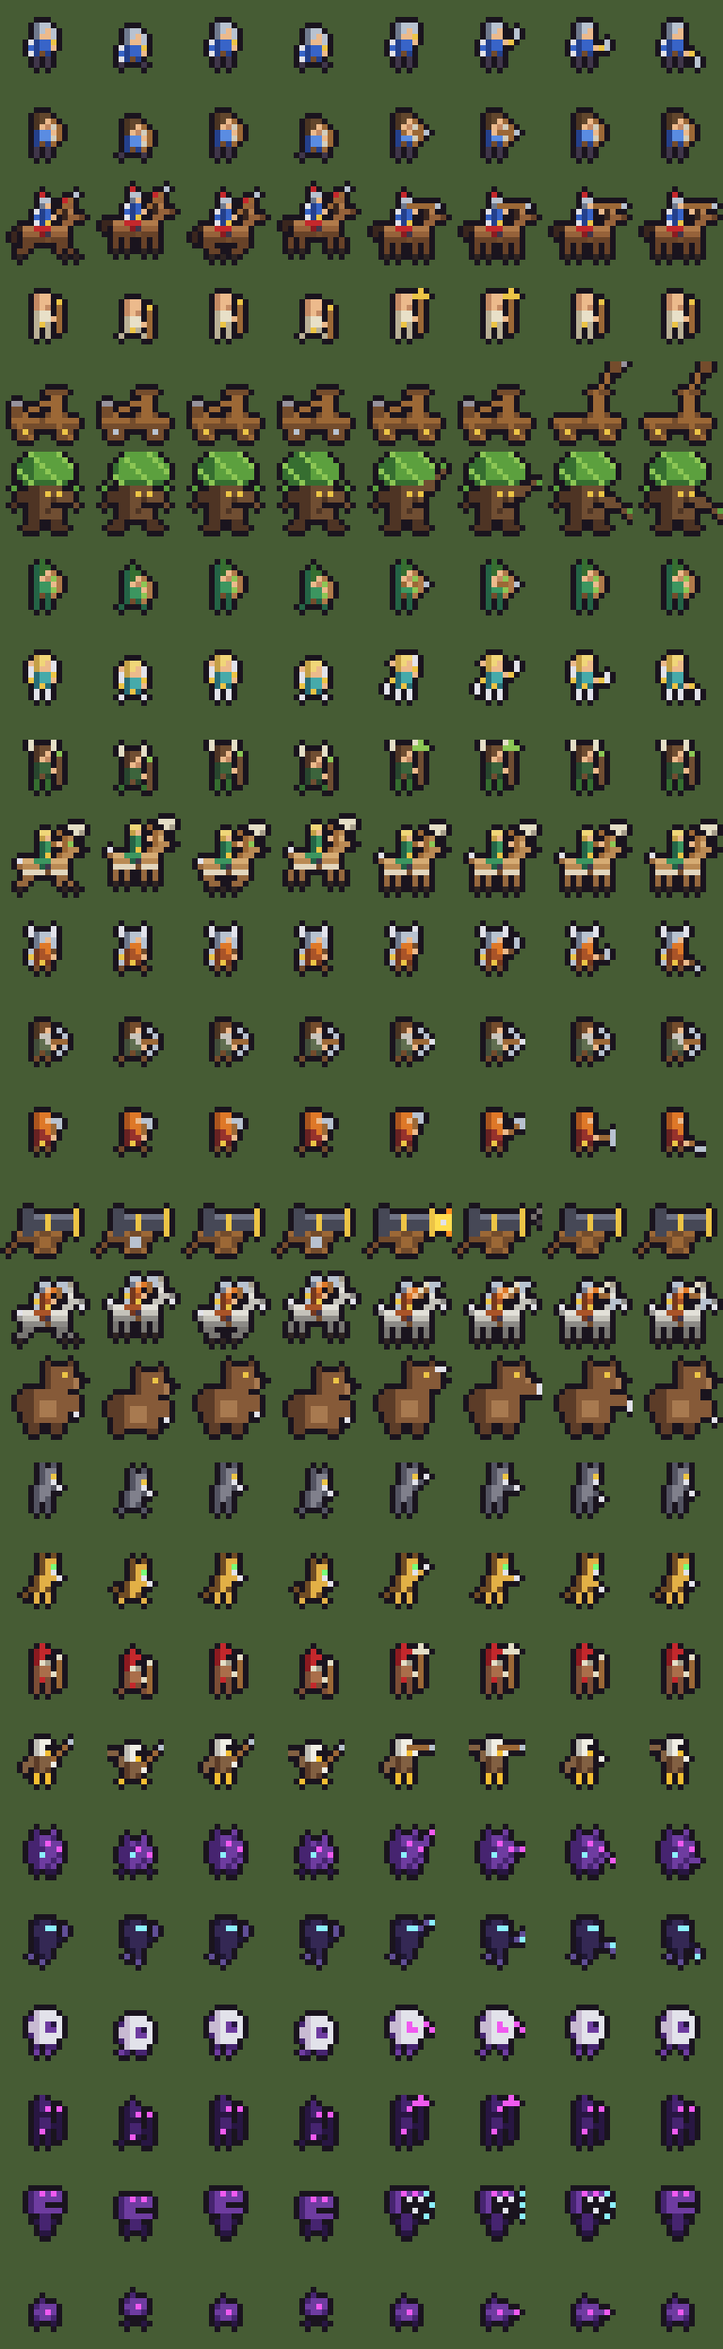
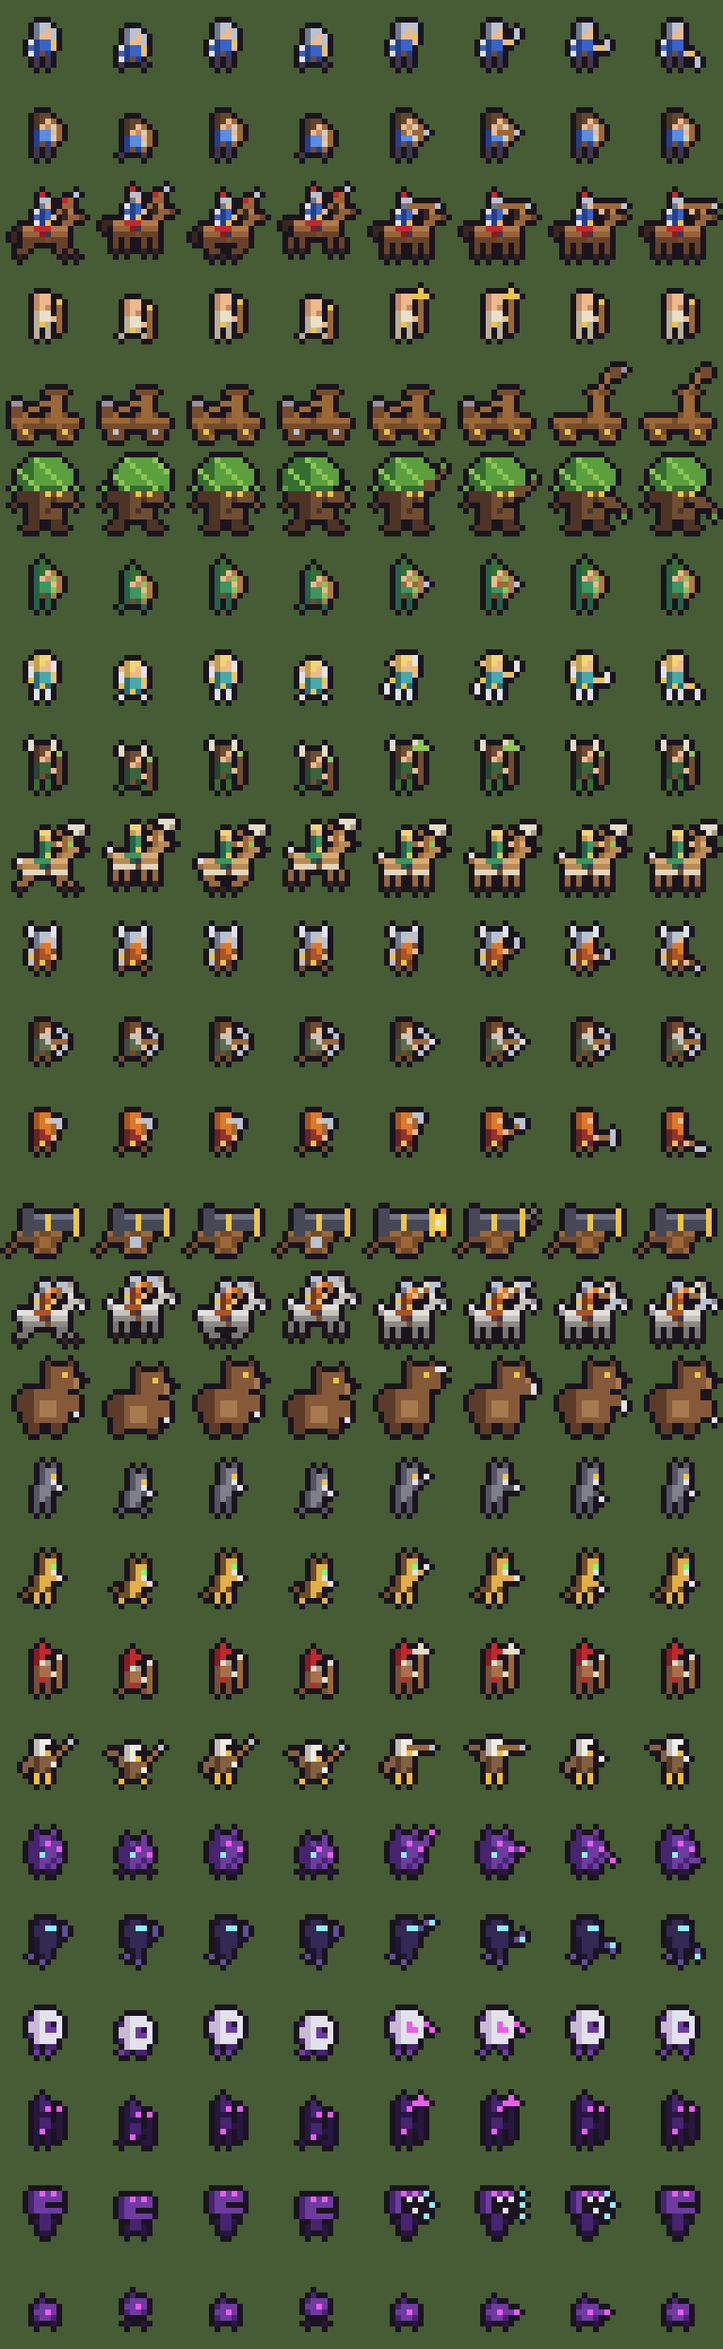
Sửa sprite hở viền, cập nhật README theo code mới
- DrawUnit tự thêm viền: lính bộ 10x10 được đặt vào khung 12x12 (chừa 1 pixel mỗi bên),
  nên pixel sát mép (chóp mũ, sừng, gậy phép, cánh...) không còn bị hở viền.
  Trước đây hở ở Người cây, Cung thủ rừng, Pháp sư tự nhiên và nhiều quân phe khác.
- Người cây, Người gấu, Máy bắn đá, Pháo: kéo tán lá / vuốt / muỗng / lửa nòng khỏi mép khung 16x16.
- Tranh ô công trình và xác chết giữ nguyên vị trí lính (chỉnh lề theo khung 12x12).
- Xuất lại atlas trong Docs/Screenshots.
- README: menu chính + tự lưu, bán thẻ, khoá ô cửa hàng, phím Esc / kéo lưới, UI uGUI + TextMesh Pro,
  số Tuning mới (máu thành 300, mỗi sao nhà lính, giới hạn 4.000 lính), cờ -savetest, quy tắc viền khi vẽ sprite.

diff --git a/Assets/_Project/Scripts/Runtime/Rendering/PixelArt.cs b/Assets/_Project/Scripts/Runtime/Rendering/PixelArt.cs
@@ -11,7 +11,7 @@ namespace HordeLab
     /// </summary>
     public static partial class PixelArt
     {
-        // Ô atlas 16x16: lính bộ 10x10 vẽ ở giữa ô, quân to dùng trọn 16x16. 4 khung hình x (26 loại x 2 trạng thái)
+        // Ô atlas 16x16: lính bộ 10x10 (12x12 tính cả viền) vẽ ở giữa ô, quân to dùng trọn 16x16. 4 khung hình x (26 loại x 2 trạng thái)
         public const int UnitCell = 16, InfantryPx = 10, UnitCols = 4, UnitRows = UnitType.Count * 2;
         public const int StampPx = 20, StampCols = 8, StampRows = 3 + (UnitType.Count * 2 + StampCols - 1) / StampCols;
         public const int ProjW = 12, ProjH = 3;   // mỗi loại đạn 1 hàng 12x3 pixel
@@ -198,8 +198,27 @@ namespace HordeLab
             }
         }
 
-        /// <summary>Vẽ 1 khung hình của 1 loại quân, quay mặt sang phải. Lính bộ trả về 10x10, quân to 16x16.</summary>
+        /// <summary>
+        /// Vẽ 1 khung hình của 1 loại quân, quay mặt sang phải, đã có viền.
+        /// Lính bộ vẽ trong 10x10 rồi đặt vào khung 12x12 (chừa 1 pixel mỗi bên cho viền), quân to 16x16.
+        /// </summary>
         public static Canvas DrawUnit(int type, int state, int f)
+        {
+            var s = DrawBody(type, state, f);
+            if (s.W == InfantryPx)
+            {
+                var padded = new Canvas(InfantryPx + 2, InfantryPx + 2);
+                padded.Blit(s, 1, 1);
+                s = padded;
+            }
+            AddOutline(s);
+            return s;
+        }
+
+        /// <summary>Lính bộ (không phải quân to 16x16)?</summary>
+        public static bool IsInfantry(Canvas sprite) => sprite.W < UnitCell;
+
+        static Canvas DrawBody(int type, int state, int f)
         {
             switch (type)
             {
@@ -259,7 +278,6 @@ namespace HordeLab
 
             if (k.shield) { s.Set(2, 4 + bob, k.sh1); s.Set(2, 5 + bob, k.sh2); s.Set(2, 6 + bob, k.sh1); }
             Weapon(s, k, walk, f, bob);
-            AddOutline(s);
             return s;
         }
 
@@ -475,7 +493,6 @@ namespace HordeLab
                 }
             }
 
-            AddOutline(s);
             return s;
         }
 
@@ -502,21 +519,20 @@ namespace HordeLab
             s.Set(8, 10, BarkDark); s.Set(9, 8, BarkDark);
             // mắt + miệng
             s.Set(8, 7, Gold); s.Set(10, 7, Gold); s.Set(9, 9, Outline); s.Set(10, 9, Outline);
-            // tán lá
-            for (int y = 0; y <= 5; y++)
+            // tán lá (từ hàng 1, chừa hàng 0 cho viền)
+            for (int y = 1; y <= 6; y++)
                 for (int x = 2; x <= 13; x++)
                 {
-                    float dx = x - 7.5f - sway, dyy = (y - 3f) * 1.6f;
+                    float dx = x - 7.5f - sway, dyy = (y - 4f) * 1.6f;
                     if (dx * dx + dyy * dyy > 30f) continue;
-                    s.Set(x, y, ((x * 7 + y * 13) % 5 == 0) ? LeafLight : (x + sway < 6 || y > 4) ? LeafDark : Leaf);
+                    s.Set(x, y, ((x * 7 + y * 13) % 5 == 0) ? LeafLight : (x + sway < 6 || y > 5) ? LeafDark : Leaf);
                 }
-            // tay cành
+            // tay cành (không chạm cột 15 để còn chỗ cho viền)
             Box(s, 3, 7, 4, 8, BarkDark); s.Set(2, 9, BarkDark); s.Set(2, 6, Leaf);
             if (walk) { Box(s, 11, 7, 12, 8, Bark); s.Set(13, 9, Bark); s.Set(13, 6, Leaf); }
             else if (f == 0) { Box(s, 11, 5, 12, 6, Bark); s.Set(13, 4, Bark); s.Set(14, 3, Bark); s.Set(14, 2, Leaf); }       // giơ cành
-            else if (f == 1) { Box(s, 11, 6, 12, 7, Bark); s.Set(13, 6, Bark); s.Set(14, 5, Bark); s.Set(15, 5, Leaf); }
-            else { Box(s, 11, 8, 12, 9, Bark); s.Set(13, 9, Bark); s.Set(14, 10, Bark); s.Set(15, 11, Bark); s.Set(15, 10, Leaf); } // quật xuống
-            AddOutline(s);
+            else if (f == 1) { Box(s, 11, 6, 12, 7, Bark); s.Set(13, 6, Bark); s.Set(14, 5, Bark); s.Set(14, 4, Leaf); }
+            else { Box(s, 11, 8, 12, 9, Bark); s.Set(13, 9, Bark); s.Set(14, 10, Bark); s.Set(14, 11, Leaf); }                 // quật xuống
             return s;
         }
 
@@ -544,10 +560,9 @@ namespace HordeLab
             // tay trước + vuốt
             if (walk) { Box(s, 12, 7 + bob, 13, 9 + bob, FurBrown); s.Set(13, 10 + bob, White); }
             else if (f == 0) { Box(s, 12, 3, 13, 5, FurBrown); s.Set(13, 2, White); s.Set(14, 2, White); }                   // giơ vuốt
-            else if (f == 1) { Box(s, 12, 5, 14, 6, FurBrown); s.Set(15, 5, White); s.Set(15, 6, White); }
-            else if (f == 2) { Box(s, 12, 7, 14, 8, FurBrown); s.Set(15, 8, White); s.Set(15, 9, White); }                   // tát ngang
+            else if (f == 1) { Box(s, 12, 5, 13, 6, FurBrown); s.Set(14, 5, White); s.Set(14, 6, White); }
+            else if (f == 2) { Box(s, 12, 7, 13, 8, FurBrown); s.Set(14, 8, White); s.Set(14, 9, White); }                   // tát ngang
             else { Box(s, 12, 8, 13, 10, FurBrown); s.Set(14, 11, White); }
-            AddOutline(s);
             return s;
         }
 
@@ -578,11 +593,10 @@ namespace HordeLab
             }
             else
             {
-                s.Set(9, 5, wood); s.Set(10, 4, wood); s.Set(11, 3, wood); s.Set(11, 2, wood); s.Set(12, 1, wood);
-                Box(s, 12, 0, 13, 1, dark);
-                if (f == 2) s.Set(14, 0, Rgb(150, 146, 156));   // đá vừa rời muỗng
+                s.Set(9, 5, wood); s.Set(10, 4, wood); s.Set(11, 3, wood); s.Set(11, 2, wood);
+                Box(s, 12, 1, 13, 2, dark);
+                if (f == 2) s.Set(14, 1, Rgb(150, 146, 156));   // đá vừa rời muỗng
             }
-            AddOutline(s);
             return s;
         }
 
@@ -606,9 +620,8 @@ namespace HordeLab
             Box(s, 7, 11, 8, 12, walk && (f & 1) == 1 ? Steel : Wood);
             s.Set(6, 10, Wood); s.Set(9, 13, Wood); s.Set(9, 10, Wood); s.Set(6, 13, Wood);
             // lửa đầu nòng
-            if (!walk && f == 0) { Box(s, 13, 7, 15, 9, Rgb(255, 222, 80)); s.Set(15, 6, Rgb(255, 142, 30)); s.Set(15, 10, Rgb(255, 142, 30)); s.Set(14, 8, White); }
-            else if (!walk && f == 1) { s.Set(14, 7, Rgb(118, 112, 108)); s.Set(15, 6, Rgb(118, 112, 108)); s.Set(15, 8, Rgb(66, 60, 62)); }
-            AddOutline(s);
+            if (!walk && f == 0) { Box(s, 13, 7, 14, 9, Rgb(255, 222, 80)); s.Set(14, 6, Rgb(255, 142, 30)); s.Set(14, 10, Rgb(255, 142, 30)); s.Set(13, 8, White); }
+            else if (!walk && f == 1) { s.Set(13, 7, Rgb(118, 112, 108)); s.Set(14, 6, Rgb(118, 112, 108)); s.Set(14, 8, Rgb(66, 60, 62)); }
             return s;
         }
 
@@ -641,7 +654,6 @@ namespace HordeLab
                 else if (f == 2) { s.Set(8, 5, Void1); s.Set(9, 6, VoidGlow); }
                 else s.Set(8, 6, Void1);
             }
-            AddOutline(s);
             return s;
         }
 
@@ -664,7 +676,6 @@ namespace HordeLab
             else if (f == 1) { s.Set(7, 4, b); s.Set(8, 4, wisp); s.Set(9, 3, wisp); s.Set(9, 4, VoidEye); }
             else if (f == 2) { s.Set(7, 5, b); s.Set(8, 5, wisp); s.Set(9, 6, wisp); s.Set(9, 5, VoidEye); }
             else { s.Set(7, 5, b); s.Set(8, 6, wisp); s.Set(8, 7, VoidEye); }
-            AddOutline(s);
             return s;
         }
 
@@ -691,7 +702,6 @@ namespace HordeLab
             s.Set(5, 7 + bob, Void2); s.Set(5 + w, 8, Void1);
             s.Set(6, 7 + bob, Void2);
             if (glow) { s.Set(8, 3 + bob, VoidGlow); s.Set(9, 4 + bob, VoidGlow); }
-            AddOutline(s);
             return s;
         }
 
@@ -717,7 +727,6 @@ namespace HordeLab
                 int r = 8 + (f % 2);
                 s.Set(r, 1, VoidEye); s.Set(r + (r < 9 ? 1 : 0), 3, VoidEye); s.Set(r, 5, VoidEye);
             }
-            AddOutline(s);
             return s;
         }
 
@@ -732,7 +741,6 @@ namespace HordeLab
             s.Set(4, 4 - hop, Void2);                                                  // sừng nhỏ
             s.Set(3, 8, Void3); s.Set(6, 8, Void3);
             if (!walk && (f == 1 || f == 2)) { s.Set(7, 6, Void1); s.Set(8, 6, VoidGlow); }   // cắn
-            AddOutline(s);
             return s;
         }
 
@@ -779,7 +787,7 @@ namespace HordeLab
                 {
                     int cell = StampCell.Corpse + t * 2 + v;
                     // quân to (xe, thú cưỡi) nằm nguyên chiều, lính bộ ngã xoay 90°
-                    var lying = body.W > InfantryPx && (t == UnitType.Catapult || t == UnitType.Cannon) ? body : Rotate(body, v == 0);
+                    var lying = (t ==UnitType.Catapult || t == UnitType.Cannon) ? body : Rotate(body, v == 0);
                     a.Blit(lying, (cell % StampCols) * S + pad, (cell / StampCols) * S + pad);
                 }
             }

diff --git a/Assets/_Project/Scripts/Runtime/Rendering/PixelArtTiles.cs b/Assets/_Project/Scripts/Runtime/Rendering/PixelArtTiles.cs
@@ -526,10 +526,11 @@ namespace HordeLab
 
             // khoảnh đất phía trước + lính gác
             var guard = DrawUnit(unit, 0, 0);
-            int gx = TilePx - guard.W - (guard.W > InfantryPx ? 1 : 3), gy = TilePx - guard.H - (guard.W > InfantryPx ? 1 : 2);
-            if (f != Faction.Void) Patch(t, gx + guard.W / 2, gy + guard.H - 3, guard.W * 0.55f, 3.5f, D1, D2);
+            bool infantry = IsInfantry(guard);                                                  // lính bộ có sẵn 1 pixel viền trống quanh hình
+            int gx = TilePx - guard.W - (infantry ? 2 : 1), gy = TilePx - guard.H - 1;
+            if (f != Faction.Void) Patch(t, gx + guard.W / 2, gy + guard.H - (infantry ? 4 : 3), (infantry ? InfantryPx : guard.W) * 0.55f, 3.5f, D1, D2);
             t.Blit(guard, gx, gy);
-            if (guard.W <= InfantryPx)                                                          // lính bộ: thêm 1 người nữa cho ra dáng tiểu đội
+            if (infantry)                                                        // lính bộ: thêm 1 người nữa cho ra dáng tiểu đội
             {
                 var second = DrawUnit(unit, 0, 1);
                 t.Blit(second, gx - 9, gy + 1);

diff --git a/README.md b/README.md
@@ -19,23 +19,31 @@ Phần mô phỏng vẫn là lõi "vạn quân" cũ: **Job System + Burst + GPU 
 3. Muốn ra file `.exe`: menu **Horde Lab → Build Windows (.exe)** → nằm ở `Build/HordeLab.exe`.
 
 ## Cách chơi
+0. **Menu chính:** *Continue* chơi tiếp lượt đang lưu, *New run* bắt đầu lượt mới (ghi đè bản lưu), *Quit*.
+   Lượt chơi **tự lưu** sau mỗi thay đổi lúc chuẩn bị và khi xong một đợt (file `run.json` trong `Application.persistentDataPath`).
+   Thoát giữa trận thì lần sau quay lại lúc chuẩn bị của đợt đó.
 1. **Chọn phe.** 3 trong 4 phe còn lại thành kẻ thù; mỗi đợt 1 phe trong số đó tấn công.
 2. **Chuẩn bị (giữa các đợt):**
-   - Kéo thẻ từ tay thả vào ô trống của lưới thành để xây (lưới bắt đầu 3×3).
+   - Kéo thẻ từ tay thả vào ô trống của lưới thành để xây (lưới bắt đầu 3×3). Hoặc bấm chọn thẻ rồi bấm vào ô.
+   - Lăn chuột trên lưới để đổi cỡ ô, giữ chuột phải / giữa để kéo lưới.
    - Kéo thẻ lên nhà cùng loại, cùng sao để **gộp** (tối đa 4 sao). Kéo công trình sang ô khác để gộp hoặc đổi chỗ.
    - Thẻ **Mở rộng đất**: thả vào ô sát cạnh lưới để mở thêm ô.
-   - **Cửa hàng** (góc phải): mua thẻ bằng Tinh thể năng lượng, có nút làm mới.
+   - **Cửa hàng** (góc phải): mua thẻ bằng Tinh thể năng lượng, có nút làm mới. Nút **Lock** giữ thẻ ở ô đó qua các lần làm mới.
+   - **Bán:** kéo thẻ hoặc công trình vào ô *SELL* để lấy Tinh thể (nhà n sao = 2^(n-1) nhà gộp lại nên được ngần ấy lần).
+     Công trình 1 sao còn kéo ngược về tay được; nhà đã gộp thì không tách ra được, chỉ bán.
    - Rê chuột vào thẻ / công trình để xem chi tiết; nhà buff sẽ tô viền vàng các ô nó tác động.
 3. **Bắt đầu đợt** → chỉ ngồi xem. Nhà lính viền đỏ = đã hồi xong nhưng đang chờ đủ tài nguyên.
 4. Hết đợt: chọn 1 trong 3 thẻ + nhận Tinh thể. Thành thất thủ thì mất 1 trong 3 tim nhưng vẫn sang đợt sau và vẫn nhận thưởng.
+5. Thắng hoặc thua cả lượt: chọn *New run* hoặc *Main menu*.
 
 | Phím | Tác dụng |
 |---|---|
+| Esc | Bỏ chọn thẻ, hoặc mở / đóng menu tạm dừng (*Save & quit to menu*, *Abandon run*) |
 | Space | Tạm dừng (trong trận) |
 | Tab | Tua nhanh x1 → x2 → x4 |
-| Lăn chuột / `+` `-` | Phóng to thêm tới 5 nấc (luôn pixel-perfect) |
-| WASD / giữ chuột giữa | Di chuyển camera |
-| R | Chơi lại (ở màn hình thắng / thua) |
+| Lăn chuột trên chiến trường / `+` `-` | Phóng to thêm tới 5 nấc (luôn pixel-perfect) |
+| WASD / phím mũi tên / giữ chuột giữa | Di chuyển camera |
+| Lăn chuột / giữ chuột phải trên lưới thành | Đổi cỡ ô / kéo lưới |
 
 ## Đã làm theo GDD
 - **Vòng lặp chính:** chuẩn bị bằng thẻ → trận tự động, kinh tế + chiến đấu thời gian thực, nhà lính chờ khi thiếu tài nguyên.
@@ -59,20 +67,24 @@ Tất cả nằm trong class `Tuning` và bảng dữ liệu ở [`GameData.cs`]
 | Gộp thẳng từ tay | Có (`MergeFromHand`) |
 | Gộp phải đứng cạnh nhau | Không |
 | Gộp lúc nào | Chỉ giữa các đợt |
-| Mỗi sao tăng gì | Nhà tài nguyên / nhà lính: sản lượng, số tiểu đội và chi phí ×1/2/4/8. Nhà buff: độ mạnh ×1/1.5/2/2.5 |
+| Mỗi sao tăng gì | Nhà tài nguyên: sản lượng ×1/2/4/8. Nhà lính: vẫn 1 tiểu đội mỗi lần gọi, máu + sát thương lính ×1/1.4/1.8/2.2, chi phí mỗi lần gọi ×1/1.5/2/2.5. Nhà buff: độ mạnh ×1/1.5/2/2.5, cộng dồn tối đa +150% (Kho quân nhu giảm chi phí tối đa 60%) |
+| Bán thẻ / công trình | 1 Tinh thể × số nhà 1 sao đã gộp vào |
+| Giới hạn quân ta | 4.000 lính trên sân; quá mức thì nhà lính tạm ngừng gọi |
 | Tinh thể thưởng mỗi đợt | `3 + đợt / 3` |
-| Cửa hàng | 4 thẻ, giá 3–5, roll giá 1, roll thay hết thẻ, tự làm mới miễn phí sau mỗi đợt |
+| Cửa hàng | 4 thẻ, giá 3–5, roll giá 1, roll thay mọi ô không bị khoá, tự làm mới miễn phí sau mỗi đợt |
 | Trùm | Chưa thiết kế → tạm là đợt đông hơn 60% và mạnh hơn 25% |
 | Phép hỗ trợ trong trận | Chưa có |
 | Công thức ghép khác loại | Chưa có |
 | Xác suất sự kiện đổi phe thù địch | 25% sau mỗi đợt |
 | Bộ thẻ khởi đầu | 2 nhà lính đầu của phe + 2 Nhà gỗ + Đồng lúa + Trại đốn gỗ + Mỏ vàng; kho 30 mỗi loại |
 | Tài nguyên giữa các đợt | Giữ nguyên, không reset |
-| Máu thành | 100, mỗi tên địch lọt qua tường trừ 1 |
+| Máu thành | 300, mỗi đòn địch đánh trúng tường thành trừ 1 |
 | Quy mô đợt địch | `5 + 2.2·đợt + 0.16·đợt²` tiểu đội, mạnh thêm 4% mỗi đợt |
 | Mọi chỉ số quân, chi phí, chu kỳ nhà | Số khởi điểm, chưa cân bằng |
 
-Ngoài GDD, có thêm 2 thứ cho dễ chơi: kéo công trình để **đổi chỗ**, và **tua nhanh** x2/x4. Còn một lưới an toàn:
+Ngoài GDD, có thêm vài thứ cho dễ chơi: kéo công trình để **đổi chỗ**, **tua nhanh** x2/x4, **bán** thẻ / công trình,
+**khoá ô** cửa hàng, **tự lưu** lượt chơi.
+Tầm bắn và tốc độ đi của mọi quân nhân 0,6 (`RangeScale`, `SpeedScale`) cho vừa chiến trường 96 × 54. Còn một lưới an toàn:
 nếu địch đã đến hết mà 150 giây sau trận vẫn chưa ngã ngũ thì tính là địch rút (phòng hai bên kẹt nhau mãi).
 
 ## Cấu trúc thư mục
@@ -86,10 +98,13 @@ Assets/
       │  ├─ Core/                  hằng số, struct dữ liệu, bảng công trình / quân / phe, số tạm
       │  ├─ Simulation/            Burst Job
       │  ├─ Rendering/             camera pixel-perfect, sprite vẽ bằng code
-      │  ├─ Gameplay/              lượt chơi, lưới thành, chiến trường, giao diện
+      │  ├─ Gameplay/              lượt chơi, lưới thành, chiến trường
+      │  ├─ UI/                    giao diện uGUI + TextMesh Pro
       │  └─ Tools/                 bot chơi thử, đo hiệu năng
       └─ Editor/                 ← assembly HordeLab.Editor (chỉ có trong Editor)
+Assets/TextMesh Pro/              ← tài nguyên mặc định của TextMesh Pro (Unity tạo, đừng sửa)
 Docs/GDD.md                      ← tài liệu thiết kế
+Docs/Screenshots/                ← ảnh chụp màn hình + atlas sprite xuất ra PNG
 Build/                           ← bản build (.gitignore)
 ```
 
@@ -98,16 +113,17 @@ Build/                           ← bản build (.gitignore)
 |---|---|
 | `Runtime/Core/Config.cs` | Hằng số, mã phe / loại quân, struct `Unit` / `Arrow` / `Particle` — mỗi lính chỉ là 1 struct |
 | `Runtime/Core/GameData.cs` | `Tuning` (mọi số tạm), bảng 5 phe, 26 loại quân, 49 lá thẻ / công trình |
-| `Runtime/Gameplay/Game.cs` | Lượt chơi: pha, tim, đợt, phe thù địch, thẻ trên tay, cửa hàng, phần thưởng, quân địch kéo đến |
+| `Runtime/Gameplay/Game.cs` | Lượt chơi: menu, lưu / nạp (`SaveData`), pha, tim, đợt, phe thù địch, thẻ trên tay, cửa hàng (khoá ô), bán, phần thưởng, quân địch kéo đến, sandbox nền menu |
 | `Runtime/Gameplay/City.cs` | Lưới thành: đặt / gộp / mở ô, tính buff, sinh tài nguyên, nhà lính gọi quân |
-| `Runtime/Gameplay/GameUI.cs` | Giao diện IMGUI + kéo thả thẻ |
+| `Runtime/UI/GameUi.cs` | Giao diện uGUI: menu chính, chọn phe, HUD, lưới thành, tay bài, cửa hàng, ô bán, phần thưởng, tooltip, kéo thả |
+| `Runtime/UI/UiKit.cs` | Hàm dựng giao diện bằng code (panel, nút, chữ TextMesh Pro, khung gỗ pixel) |
 | `Runtime/Gameplay/Battle.cs` | Chiến trường: cấp phát mảng, xếp lịch Job, upload lên GPU. Không biết gì về thẻ bài |
 | `Runtime/Simulation/SimJobs.cs` | Toàn bộ mô phỏng dạng Burst Job: lưới không gian, AI từng loại quân, đòn đánh, đạn, hạt, cái chết |
 | `Runtime/Rendering/PixelView.cs` | Camera pixel-perfect: vẽ vào RenderTexture độ phân giải thấp rồi phóng nguyên lần |
-| `Runtime/Rendering/PixelArt.cs` | "Vẽ" toàn bộ sprite bằng code (26 loại quân, xác, máu, đạn, mặt đất, thành, biểu tượng) |
+| `Runtime/Rendering/PixelArt.cs` | "Vẽ" toàn bộ sprite bằng code (26 loại quân, xác, máu, đạn, mặt đất, thành, biểu tượng). `DrawUnit` tự thêm viền đen |
 | `Runtime/Rendering/PixelArtTiles.cs` | Tranh ô công trình nhìn từ trên xuống (32×32 / ô, ghép từ nhà, cây, hàng rào...) và khung giao diện gỗ kiểu pixel |
 | `Resources/Shaders/*.shader` | Shader instancing đọc `StructuredBuffer`, tạo quad từ `SV_VertexID` |
-| `Runtime/Tools/AutoShot.cs` | Bot chơi thử + chụp màn hình: `-autoshot <thư mục> [-faction 0..4] [-waves N] [-stress 20000]` |
+| `Runtime/Tools/AutoShot.cs` | Bot chơi thử + chụp màn hình: `-autoshot <thư mục> [-faction 0..4] [-waves N] [-stress 20000] [-savetest]` |
 | `Runtime/Tools/Benchmark.cs` | Đo chi phí từng job, seed + dt cố định: `-batchmode -bench <file.txt> [-stress 20000]` |
 | `Editor/HordeBuild.cs` | Menu **Horde Lab**: tạo lại scene, xuất atlas sprite ra PNG, build file `.exe` |
 
@@ -117,6 +133,8 @@ Build/                           ← bản build (.gitignore)
 - **Thêm nhà buff:** thêm mã vào `B`, 1 dòng trong `BuildBuildings`, 1 `case` trong `City.Recompute`.
 - **Thay hình:** thay các hàm `Draw*` trong `PixelArt.cs`. Atlas lính: ô 16×16, 4 cột (khung hình) × 52 hàng
   (`loại * 2 + trạng thái`, 0 = đi, 1 = đánh), quay mặt sang phải; lính bộ vẽ 10×10 ở giữa ô.
+  Không tự gọi `AddOutline`: `DrawUnit` tự thêm viền (lính bộ được chừa sẵn 1 pixel mỗi bên). Quân to 16×16 phải
+  **chừa trống hàng / cột sát mép** cho viền, không thì chỗ đó bị hở viền.
 - **Thay tranh công trình:** mỗi công trình là 1 `case` trong `DrawTile` (PixelArtTiles.cs), vẽ trên ô 32×32.
   Menu **Horde Lab → Xuất atlas sprite ra PNG** để xem nhanh (`Docs/Screenshots/atlas_*.png`).
 
@@ -125,7 +143,8 @@ Build/                           ← bản build (.gitignore)
 Build\HordeLab.exe -autoshot ketqua -faction 0 -waves 5
 ```
 Bot chọn phe, đặt thẻ, mua đồ, đánh 5 đợt, chụp màn hình từng pha và ghi kết quả từng đợt vào `ketqua\stats.txt`.
-Thêm `-batchmode` để chạy ngầm, nhanh hết mức (không chụp hình).
+Thêm `-batchmode` để chạy ngầm, nhanh hết mức (không chụp hình). Bot mặc định không ghi file lưu, để khỏi đè lượt chơi thật;
+thêm `-savetest` để thử cả phần lưu / nạp (ghi vào `run_autotest.json`).
 
 ```
 Build\HordeLab.exe -batchmode -bench ketqua.txt -stress 20000
